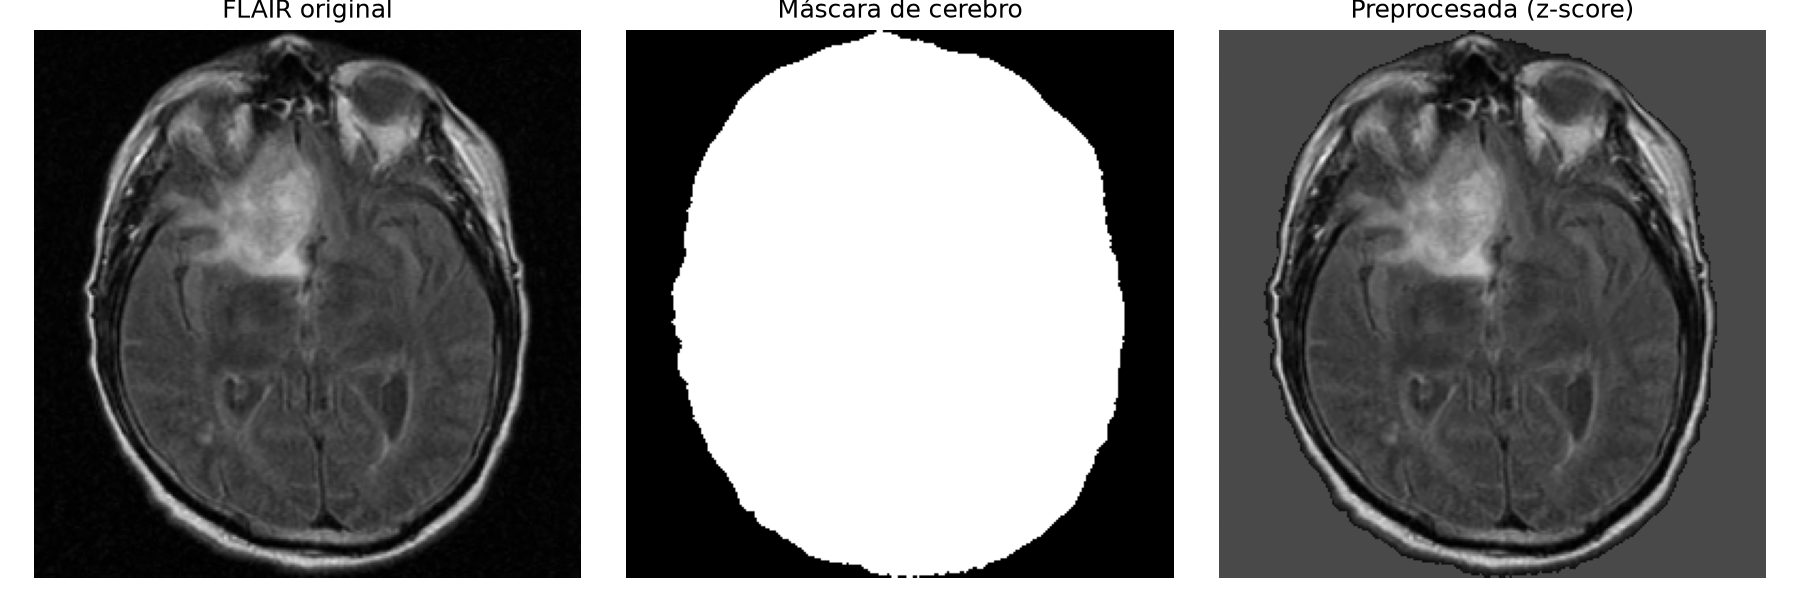
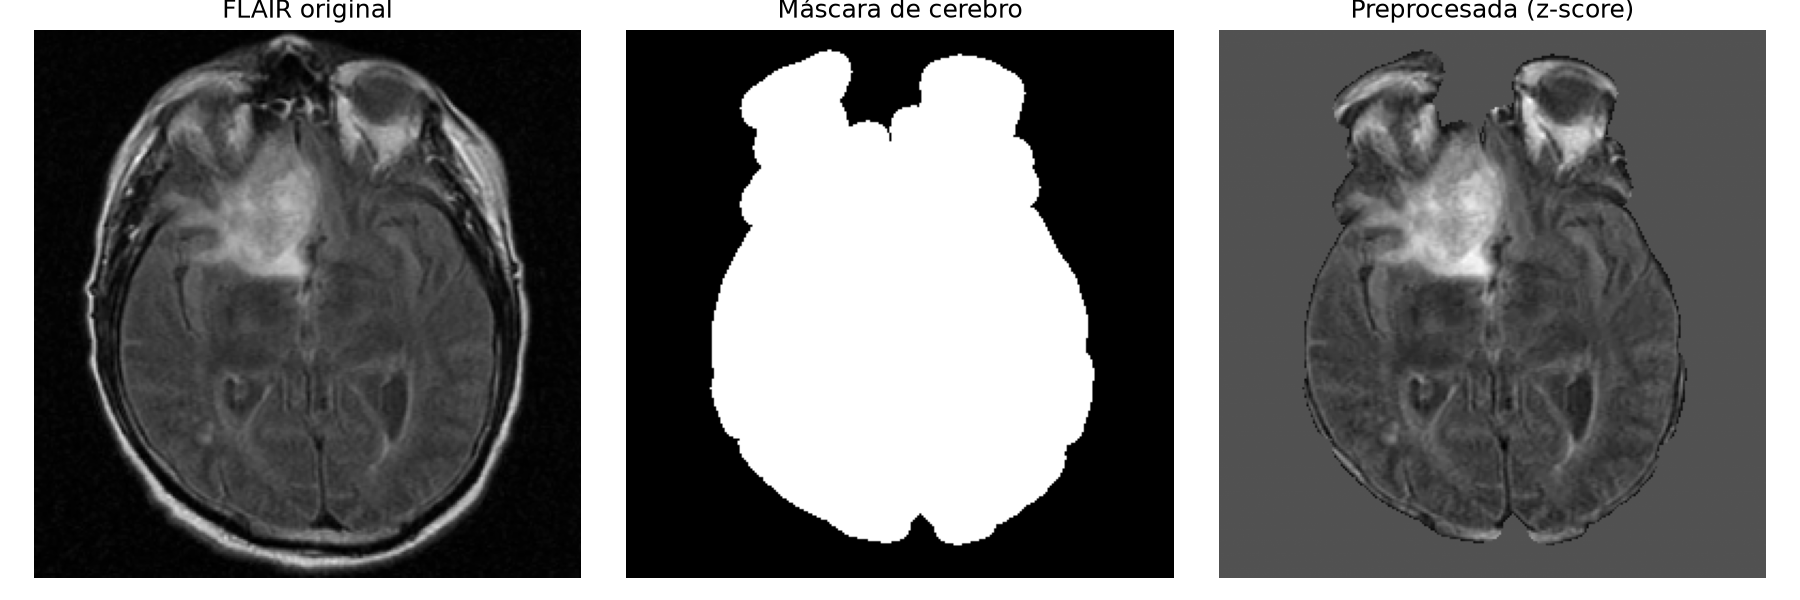
arregle el issue

diff --git a/procesamiento.py b/procesamiento.py
@@ -10,24 +10,33 @@ matplotlib.use("Agg")  # backend sin ventana: solo guardamos figuras
 import matplotlib.pyplot as plt
 from scipy import ndimage as ndi
 from skimage.filters import threshold_otsu
-from skimage.restoration import denoise_nl_means, estimate_sigma
+from skimage.morphology import disk  # elemento estructurante circular
+from skimage.restoration import denoise_nl_means, estimate_sigma  # estimate_sigma requiere PyWavelets
 from skimage.metrics import peak_signal_noise_ratio as psnr, structural_similarity as ssim
 
 from cargadatos import load_flair  # TODO: renombrar a etapa0_datos cuando Nico unifique el nombre
 
 BEST_METHOD = "nlm"   # filtro elegido para preprocess(); se confirma con la tabla del main
-MASK_FACTOR = 0.3     # fracción del umbral de Otsu usada para separar cerebro de fondo (ajustable)
+
+# --- Parámetros de la máscara (validar mirando TCGA_HT_A61A c58 y TCGA_HT_7881 c39) ---
+MASK_FACTOR = 0.5     # fracción del umbral de Otsu. Antes 0.3: tan bajo que el hueso y el cuero cabelludo
+                      # entraban como "tejido". Con 0.5 el cráneo oscuro queda fuera sin perder cerebro gris.
+ERODE_R = 10          # radio (px) de erosión/dilatación. Debe superar la mitad del puente más grueso entre
+                      # cerebro y cuero cabelludo (~7-10 px en cortes de 256x256). Antes 7.
 
 
 def brain_mask(img):
-    """Devuelve la máscara booleana del cerebro (umbral de Otsu, mayor componente conexa, sin huecos)."""
-    m = img > threshold_otsu(img) * MASK_FACTOR   # umbral bajo: incluye tejido oscuro pero excluye el fondo
-    m = ndi.binary_opening(m, iterations=2)       # la apertura saca puntos sueltos y bordes ruidosos
-    m = ndi.binary_fill_holes(m)                  # rellena huecos internos (LCR anulado, ventrículos)
-    lab, n = ndi.label(m)                         # componentes conexas
-    if n == 0:                                    # imagen vacía: devolvemos la máscara tal cual
+    """Máscara booleana del cerebro: umbral -> erosión -> mayor componente -> rellenar -> dilatar."""
+    m = img > threshold_otsu(img) * MASK_FACTOR            # separa tejido de fondo
+    se = disk(ERODE_R)                                     # mismo elemento para erosionar y dilatar (= apertura)
+    core = ndi.binary_erosion(m, structure=se)             # corta los puentes finos entre cerebro y cuero cabelludo
+    lab, n = ndi.label(core)                               # componentes conexas del núcleo
+    if n == 0:                                             # nada sobrevivió: devolvemos el umbral tal cual
         return m
-    return lab == (np.argmax(np.bincount(lab.ravel())[1:]) + 1)  # nos quedamos con la más grande
+    sizes = np.bincount(lab.ravel())[1:]                   # tamaño de cada componente (sin el fondo 0)
+    core = lab == (np.argmax(sizes) + 1)                   # mayor componente = cerebro; el cuero cabelludo queda afuera
+    core = ndi.binary_fill_holes(core)                     # rellenamos DESPUÉS de elegir (ventrículos, LCR oscuro en FLAIR)
+    return ndi.binary_dilation(core, structure=se)         # recuperamos el borde; el disco da contorno suave (sin "& m", que lo dentaba)
 
 
 def normalize(img, mask):
@@ -82,7 +91,7 @@ if __name__ == "__main__":
     img = load_flair(slices[len(slices) // 2])
     print("Corte usado:", slices[len(slices) // 2])
 
-    # --- 0) Chequeo de la máscara: valores del fondo vs cerebro para validar el umbral ---
+    # --- 0) Chequeo de la máscara: valores del fondo vs cerebro para validar los parámetros ---
     mask = brain_mask(img)
     print(f"Rango imagen: min={img.min():.2f}, max={img.max():.2f}, umbral usado={threshold_otsu(img) * MASK_FACTOR:.2f}")
     print(f"Fondo: media={img[~mask].mean():.2f} | Cerebro: media={img[mask].mean():.2f} | "
